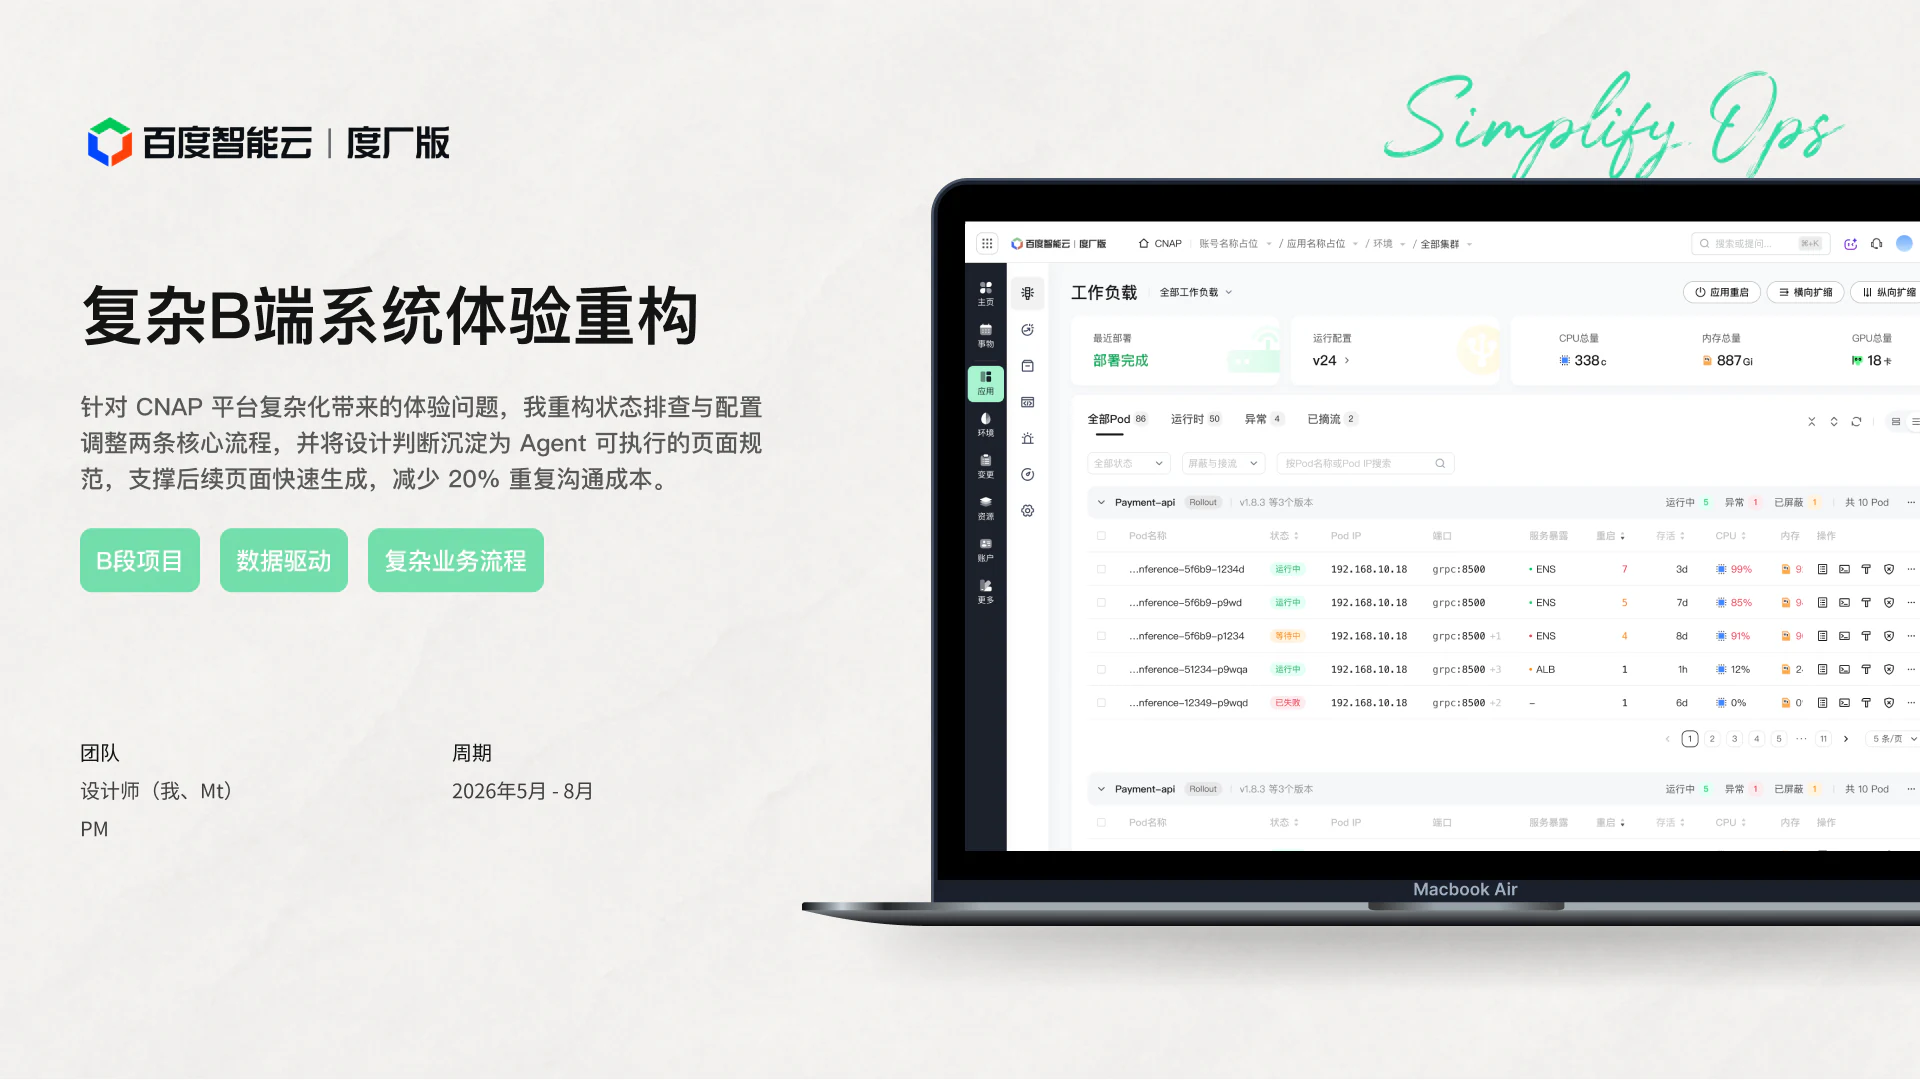
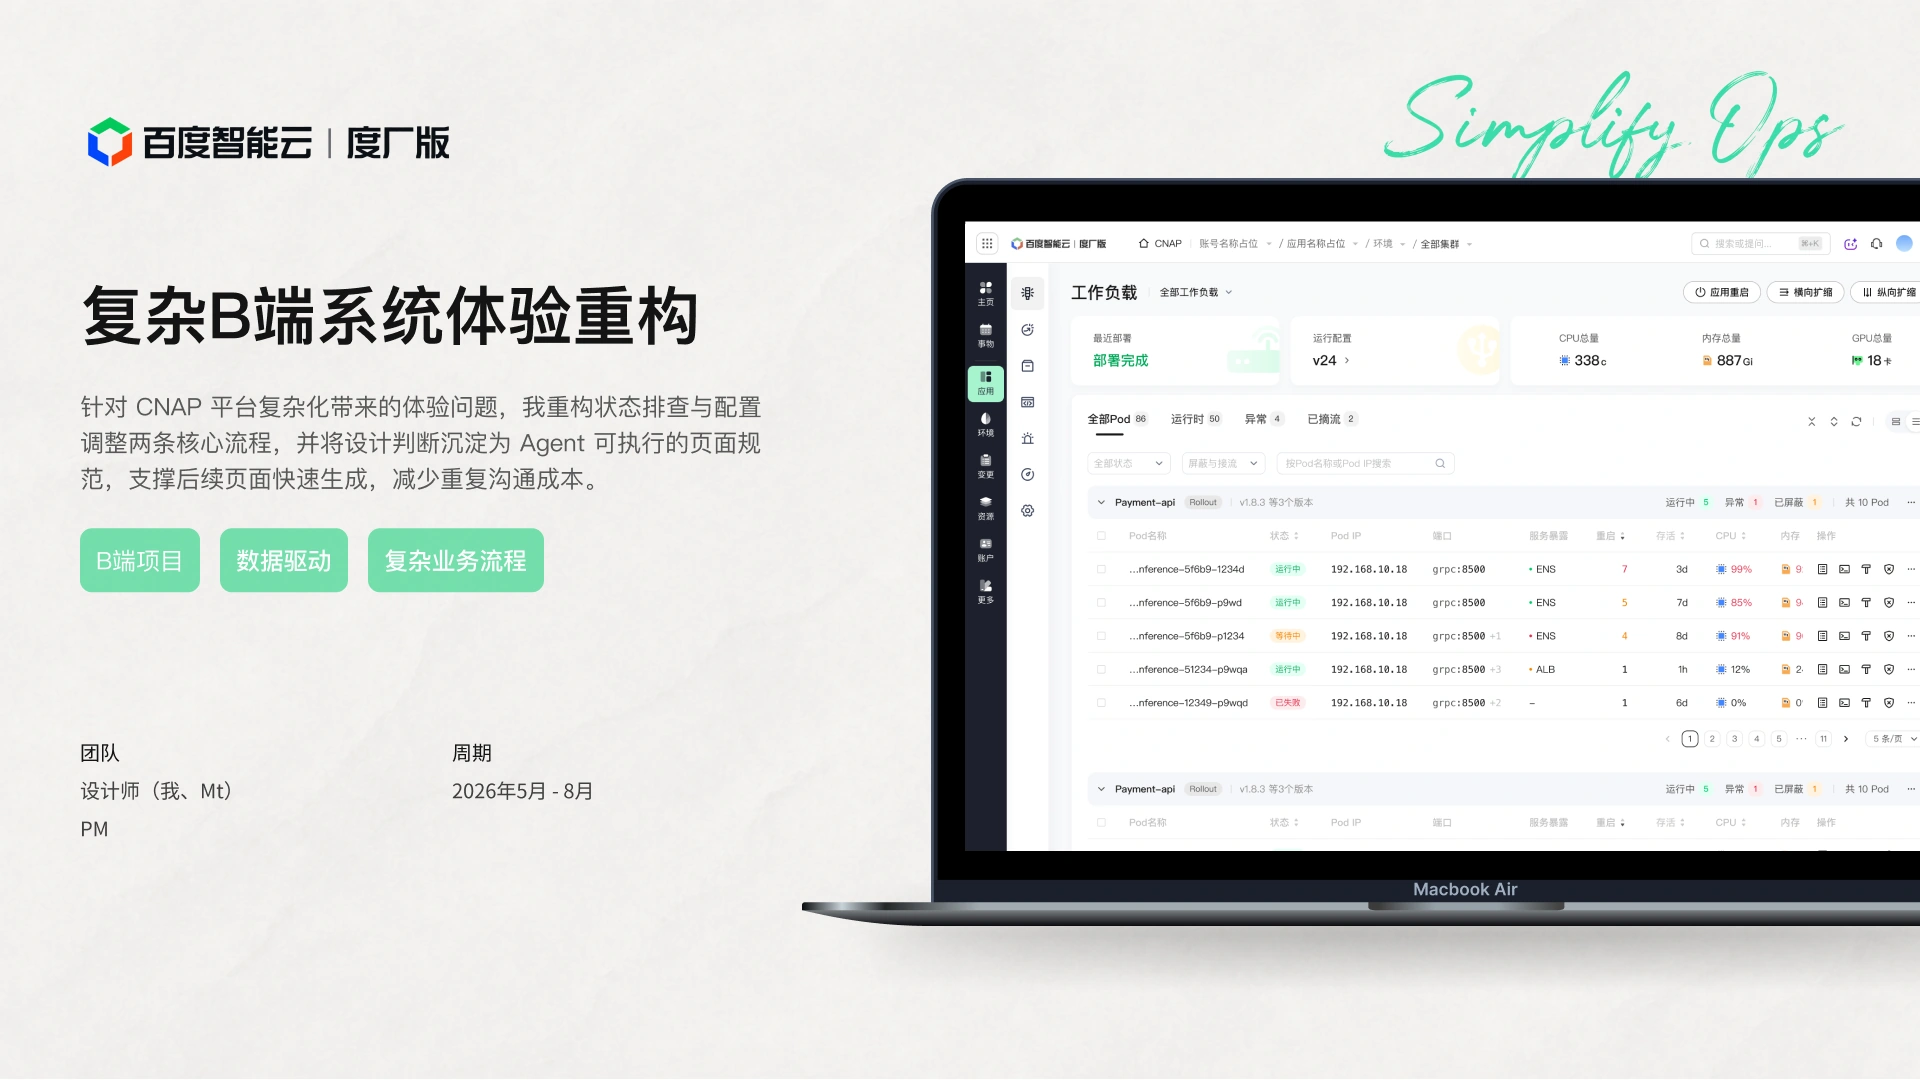
Update CNAP cover and resume copy

Changed region(s): [[0.0312, 0.3667, 0.4062, 0.4583], [0.0625, 0.4889, 0.0938, 0.55]]

diff --git a/index.html b/index.html
@@ -136,11 +136,11 @@
                     <span class="about-resume-date">2026.05–08</span>
                     <div class="about-resume-item">
                       <strong class="about-resume-item-title">复杂B端系统体验重构</strong>
-                      <p class="about-resume-description">负责 CNAP 核心运维体验改版，基于排查效率低、配置关系难理解等问题，重构「状态排查」与「配置调整」两条核心流程，并沉淀页面与复杂表单规范，推动方案在产研团队落地并持续复用。</p>
+                      <p class="about-resume-description">主导 CNAP 运维体验改版，挖掘满意度数据调研定位“排查链路长”与“配置关系不清”等问题，减少页面信息量，缩短配置流程，方案获产研团队认可；推进基于典型页面提炼页面规范，转化为 Agent 可调用规范，驱动后续页面生成并完成产品验证。</p>
                     </div>
                     <div class="about-resume-item">
                       <strong class="about-resume-item-title">AI 设计工作流与 Skills 建设</strong>
-                      <p class="about-resume-description">主导 AI 设计工作流与 Skills 建设，搭建从需求获取、方案生成到设计走查、上线回传的完整流程，并将体验原则、交互规范与组件模板转化为 Agent 可调用知识，提升方案生成与验收的一致性，获得设计及产研团队认可。</p>
+                      <p class="about-resume-description">主导 AI 设计工作流与 Skills 建设，跑通从用户反馈、方案生成到产研 Review 与上线的交付闭环；挖掘设计师隐形知识，推动转化为 Agent 可调用的知识和 Skills，并在真实项目中完成验证，提升方案生成与验收的稳定性。</p>
                     </div>
                   </div>
                 </article>

diff --git a/pages/cnap-case.html b/pages/cnap-case.html
@@ -21,7 +21,7 @@
     </header>
     <main id="top">
       <section class="slides" aria-label="CNAP 云原生工作负载管理项目案例">
-        <img src="../assets/cnap-case/page-01.webp" alt="CNAP 云原生工作负载管理项目概览" data-section-kicker="项目开篇" data-section-title="复杂 B 端系统体验重构" width="1920" height="1080" fetchpriority="high" decoding="async" />
+        <img src="../assets/cnap-case/page-01.webp?v=20260914-2" alt="CNAP 云原生工作负载管理项目概览" data-section-kicker="项目开篇" data-section-title="复杂 B 端系统体验重构" width="1920" height="1080" fetchpriority="high" decoding="async" />
         <img data-src="../assets/cnap-case/page-02-revised.webp" alt="CNAP 信息架构与核心任务流程" data-section-kicker="项目背景" data-section-title="系统复杂化带来的核心痛点" width="1920" height="1080" loading="lazy" decoding="async" />
         <img data-src="../assets/cnap-case/page-03.webp?v=20260914-1" alt="CNAP 初期困难与体验短板：看懂产品，却看不懂用户" data-section-kicker="初期困难" data-section-title="看懂产品，却看不懂用户" width="1920" height="1080" loading="lazy" decoding="async" />
         <img data-src="../assets/cnap-case/page-04.webp" alt="CNAP 设计重构目标与策略" data-section-kicker="设计策略" data-section-title="先解决高频任务，再沉淀页面规则" width="1920" height="1080" loading="lazy" decoding="async" />
